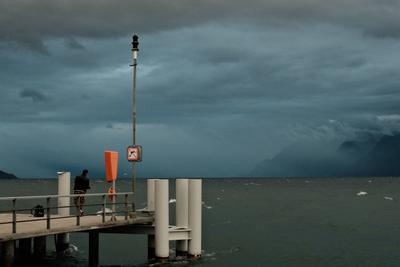
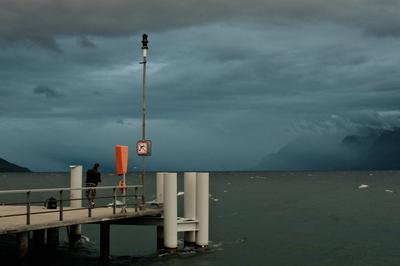
Fixed image orientation

diff --git a/photography.html b/photography.html
@@ -62,11 +62,11 @@
         <div
           class="gallery"
           style="
-            --height-3col: 63.81354642313547vw;
+            --height-3col: 88.53576864535769vw;
             --width-3col: 90vw;
-            --height-2col: 135.375vw;
+            --height-2col: 174.75vw;
             --width-2col: 95vw;
-            --height-1col: 552.3447488584474vw;
+            --height-1col: 634.011415525114vw;
             --width-1col: 98vw;
           "
         >
@@ -233,15 +233,15 @@
               --left-3col: 60.333333333333336vw;
               --top-3col: 43.53576864535769vw;
               --width-3col: 29.666666666666668vw;
-              --height-3col: 19.77777777777778vw;
+              --height-3col: 44.5vw;
               --left-2col: 47.75vw;
               --top-2col: 103.375vw;
               --width-2col: 47.25vw;
-              --height-2col: 31.500000000000004vw;
+              --height-2col: 70.875vw;
               --left-1col: 0vw;
               --top-1col: 486.51141552511405vw;
               --width-1col: 98vw;
-              --height-1col: 65.33333333333333vw;
+              --height-1col: 147vw;
             "
           >
             <img

diff --git a/render.py b/render.py
@@ -3,7 +3,7 @@ from jinja2 import Environment, FileSystemLoader
 from omegaconf import OmegaConf
 import subprocess
 import os
-from PIL import Image
+from PIL import Image, ImageOps
 import glob
 from datetime import datetime
 
@@ -26,6 +26,9 @@ def process_image_for_low_res(original_path):
     if not os.path.exists(low_res_path):
         try:
             with Image.open(original_path) as img:
+                # Apply EXIF orientation first to fix rotated/flipped images
+                img = ImageOps.exif_transpose(img)
+
                 # Resize to 400px width, maintaining aspect ratio
                 width, height = img.size
                 new_width = 400
@@ -145,6 +148,8 @@ def calculate_masonry_layout(photos, num_columns, total_width_vw, gap_vw):
     for photo_data in photos:
         try:
             with Image.open(photo_data["original_src"]) as img:
+                # Apply EXIF orientation to get correct dimensions
+                img = ImageOps.exif_transpose(img)
                 width, height = img.size
                 # Find the shortest column
                 min_height_vw = min(column_heights_vw)
